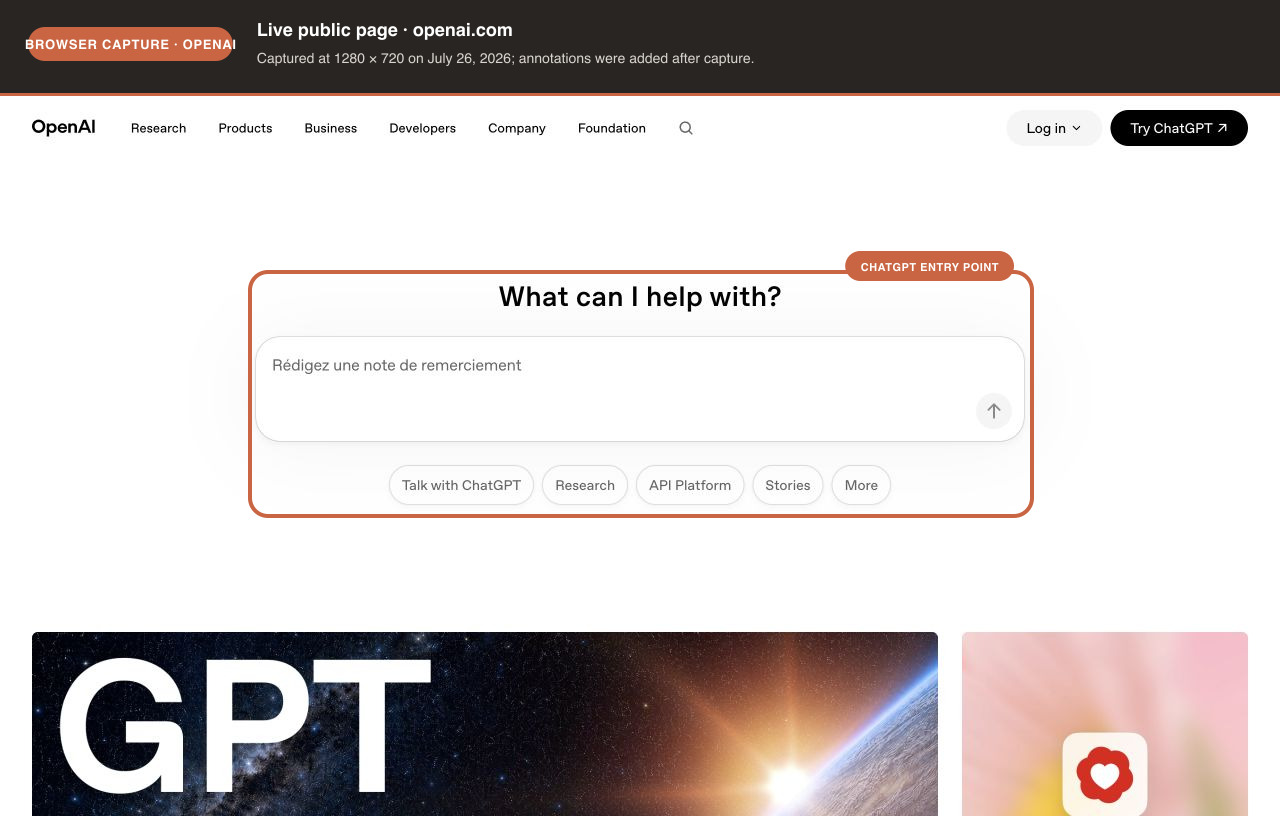
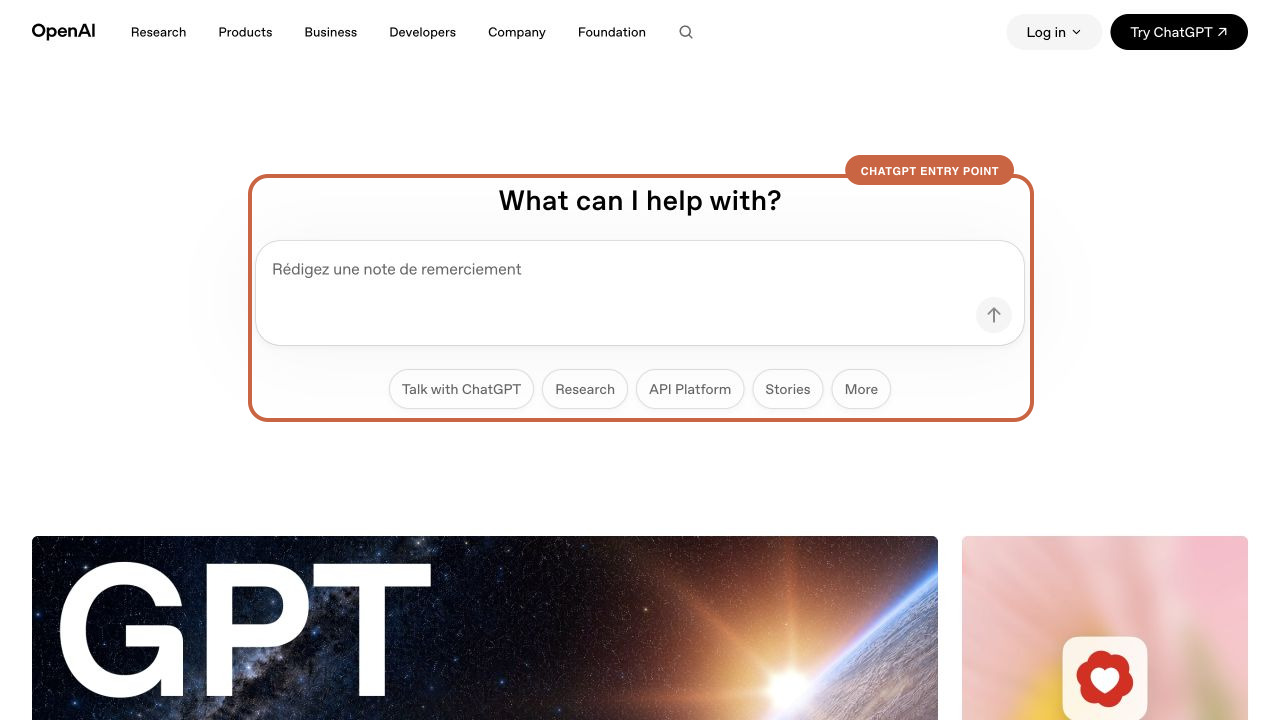
Remove annotation header bar

diff --git a/skills/annotate-screenshots/SKILL.md b/skills/annotate-screenshots/SKILL.md
@@ -1,13 +1,13 @@
 ---
 name: annotate-screenshots
-description: Capture or transform screenshots into honest, deterministic annotated images using matched raw PNGs plus Sharp-composited SVG headers, labels, outlines, arrows, and callouts. Use for PR before/after comparisons, product-change evidence, UI walkthroughs, bug reports, or requests to highlight differences in screenshots without generative image editing.
+description: Capture or transform screenshots into honest, deterministic annotated images using matched raw PNGs plus Sharp-composited SVG labels, outlines, arrows, and callouts. Use for PR before/after comparisons, product-change evidence, UI walkthroughs, bug reports, or requests to highlight differences in screenshots without generative image editing.
 ---
 
 # Annotate Screenshots
 
 Create annotation layers without redrawing the underlying product UI. Capture an unmodified screenshot first, then build one SVG overlay and composite it with Sharp.
 
-Never inject annotation HTML, CSS, SVG, or DOM nodes into the page being captured. Use browser tooling only to reach, frame, and capture the raw state. Render every header, label, outline, arrow, and callout afterward with `scripts/annotate-screenshot.mjs`.
+Never inject annotation HTML, CSS, SVG, or DOM nodes into the page being captured. Use browser tooling only to reach, frame, and capture the raw state. Render every label, outline, arrow, and callout afterward with `scripts/annotate-screenshot.mjs`.
 
 ## Workflow
 
@@ -24,13 +24,14 @@ Never inject annotation HTML, CSS, SVG, or DOM nodes into the page being capture
    - Frame the changed area consistently. Use element bounds when browser tooling exposes them.
    - Record the capture facts needed for the PR or report: route, source state, viewport, and any fixture/data caveat.
 4. Annotate after capture with Sharp + SVG only.
-   - Add a header above the screenshot so explanatory copy does not cover the product.
+   - Keep the original screenshot dimensions. Do not add a header or expand the canvas.
+   - Put route, source-state, and fixture provenance in the surrounding PR or report copy.
    - Use a dashed outline for an area with no prior equivalent.
    - Use a solid outline for a new or changed region.
    - Use arrows or compact callouts only when the outline alone is ambiguous.
    - Keep labels factual and short. Describe what changed, not whether it is “better.”
 5. Render with `scripts/annotate-screenshot.mjs`.
-6. Inspect every final image at full size and verify dimensions, legibility, crop, and provenance wording.
+6. Inspect every final image at full size and verify dimensions, legibility, crop, and surrounding provenance wording.
 7. If publishing to a PR, confirm the pushed image URLs resolve and say whether each image is a real route or a fixture.
 
 ## Render
@@ -50,18 +51,12 @@ node /absolute/path/to/annotate-screenshots/scripts/annotate-screenshot.mjs \
   --spec /absolute/path/to/annotation.json
 ```
 
-Coordinates in the spec are relative to the raw screenshot. The renderer adds the header offset automatically.
+Coordinates in the spec are relative to the raw screenshot, and the output dimensions match the input.
 
 Use a spec like:
 
 ```json
 {
-  "header": {
-    "height": 96,
-    "badge": "AFTER · PR",
-    "title": "Actual localhost /admin/analytics",
-    "subtitle": "The real route now includes per-post audience analytics."
-  },
   "annotations": [
     {
       "type": "rect",
@@ -79,7 +74,7 @@ Use a spec like:
 }
 ```
 
-For a before image, change the badge, use `"style": "dashed"`, and label the absent region `"NO PRIOR EQUIVALENT"`.
+For a before image, use `"style": "dashed"` and label the absent region `"NO PRIOR EQUIVALENT"`.
 
 Supported annotation types:
 
@@ -97,7 +92,7 @@ node /absolute/path/to/annotate-screenshots/scripts/annotate-screenshot.mjs --pr
 
 - Default to the session-derived palette: charcoal `#292522`, terracotta `#C96542`, white, and warm gray `#D9D4CF`.
 - Use one accent color across a comparison pair.
-- Keep the header title tied to provenance, such as `Actual localhost /route` or `Focused component fixture`.
+- Keep provenance outside the image unless a compact callout is itself part of the requested evidence.
 - Prefer one primary outline and at most one supporting callout per image.
 - Keep a before/after pair at identical final dimensions.
 - Export JPEG at quality 92 with 4:4:4 chroma for compact PR assets. Export PNG when exact pixel preservation matters.
@@ -106,12 +101,12 @@ node /absolute/path/to/annotate-screenshots/scripts/annotate-screenshot.mjs --pr
 
 Before delivery:
 
-- Confirm the raw image dimensions and the final height: `raw height + header height`.
+- Confirm the raw and final image dimensions match.
 - Confirm before and after dimensions match.
 - Open the images at original detail; do not rely on thumbnails.
 - Confirm annotations do not hide the changed UI.
 - Confirm the raw route pixels came from the stated source.
-- Confirm fixture or representative-data caveats appear both in the image header and surrounding PR/report copy.
+- Confirm fixture or representative-data caveats appear in the surrounding PR or report copy.
 - Keep raw PNGs until the final assets and remote URLs have been verified.
 
 Do not use generative image editing for this workflow. If the request requires altering the screenshot’s product pixels rather than adding evidence overlays, stop and clarify that the result would no longer be a faithful capture.

diff --git a/README.md b/README.md
@@ -4,14 +4,15 @@ An agent skill for adding honest, deterministic annotations to screenshots with
 [Sharp](https://sharp.pixelplumbing.com/) and SVG.
 
 It captures or accepts an unmodified screenshot, builds a separate SVG evidence
-layer, and composites the two after capture. It never injects annotation markup
-into the page and never uses generative image editing.
+layer, and composites the two after capture without changing the canvas size. It
+never injects annotation markup into the page and never uses generative image
+editing.
 
 ## Showcase
 
 These examples are live public pages captured in the Browser at 1280 × 720 on
 July 26, 2026. The raw PNGs preserve the page pixels exactly as captured; the
-headers and outlines were composited afterward with Sharp + SVG. Public-page
+outlines and labels were composited afterward with Sharp + SVG. Public-page
 content may change after the capture date.
 
 ### Reddit
@@ -83,8 +84,8 @@ npx skills add madeyexz/annotate-screenshots -g -a codex -a claude-code
               │
               │        ┌────────────────────────────┐
               │        │ JSON annotation spec       │
-              │        │ header, rectangles, arrows,│
-              │        │ labels, and callouts       │
+              │        │ outlines, arrows, labels,  │
+              │        │ and callouts               │
               │        └─────────────┬──────────────┘
               │                      │
               │                      ▼
@@ -133,10 +134,10 @@ The skill guides the agent to:
 - Dashed rectangle: an area with no prior equivalent.
 - Arrow: a precise relationship or target.
 - Callout: a short factual explanation.
-- Header: source state, route, and comparison context.
 
-Coordinates are relative to the raw screenshot. The renderer automatically adds
-the header offset.
+Coordinates are relative to the raw screenshot. The annotated output keeps the
+same dimensions as the raw capture. Record source state, route, and comparison
+context in the surrounding PR or report copy.
 
 ## Renderer runtime
 
@@ -175,12 +176,6 @@ Example:
 
 ```json
 {
-  "header": {
-    "height": 96,
-    "badge": "AFTER · PR",
-    "title": "Actual localhost /admin/analytics",
-    "subtitle": "The real route now includes per-post audience analytics."
-  },
   "annotations": [
     {
       "type": "rect",
